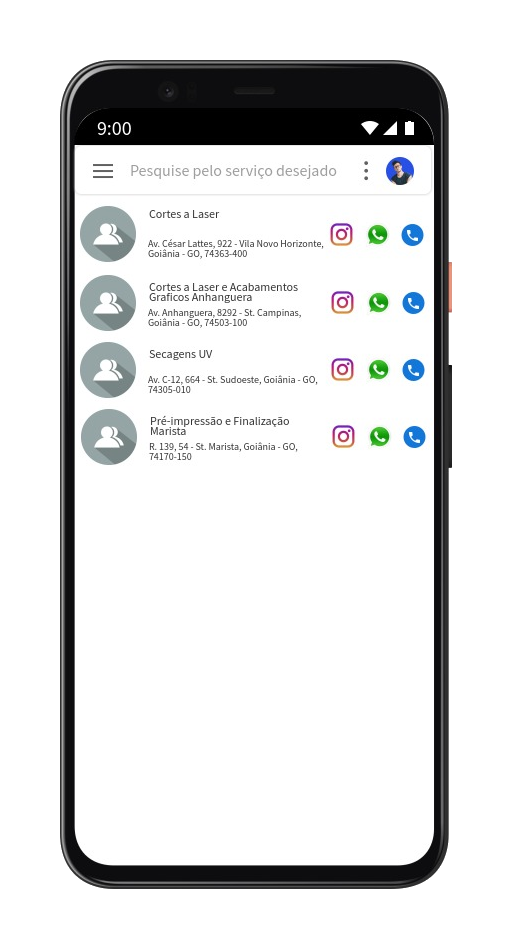
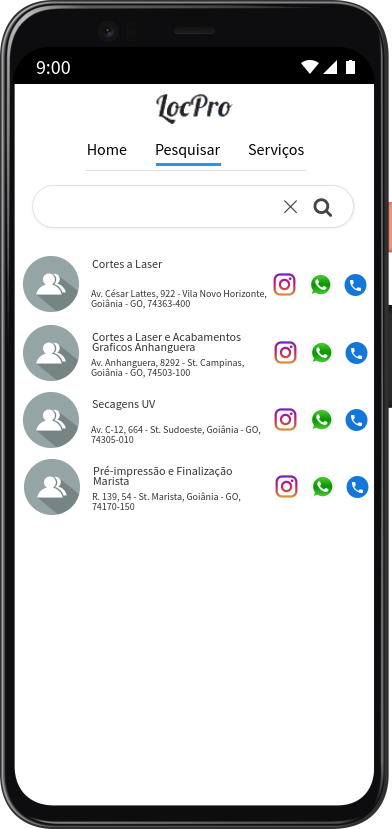
ajustes

diff --git a/index.html b/index.html
@@ -96,7 +96,7 @@
           solicitando serviços, facilitando e agilizando sua necessidade.
         </p>
         <div
-          class="d-flex flex-row w-100 justify-content-lg-between justify-content-sm-center p-3 p-lg-3 flex-wrap"
+          class="d-flex flex-row w-100 justify-content-lg-between justify-content-center p-3 p-lg-3 flex-wrap"
         >
           <div
             class="p-sm-3 card bg-transparent border-0 hvr-grow"
@@ -144,9 +144,9 @@
       </div>
     </div>
 
-    <div class="d-md-flex flex-md-equal w-100 my-md-3 pl-md-3 d-flex align-items-center justify-content-center flex-wrap">
+    <div class="d-flex align-items-center justify-content-center flex-wrap py-3 py-md-5">
       <div
-        class="mr-md-3 pt-3 px-3 pt-md-5 px-md-5 text-center overflow-hidden d-flex justify-content-center align-items-center"
+        class="col-sm-12 col-md-5"
       >
         <div class="my-3 p-3 px-md-5 text-left">
           <h2 class="display-5">Você e um profissional gráfico?</h2>
@@ -159,16 +159,21 @@
         </div>
       </div>
       <div
-        class="mr-md-3 pt-3 px-3 pt-md-5 px-md-5 text-center overflow-hidden"
+        class="col-sm-12 col-md-7 d-flex justify-content-center flex-wrap"
       >
         <img
           src="./imagens/phone-1.png"
-          class="img-fluid"
-          style="max-height: 680px;"
+          class="img-fluid m-3"
+          style="max-height: 500px;"
+        />
+        <img
+          src="./imagens/phone-2.png"
+          class="img-fluid m-3"
+          style="max-height: 500px;"
         />
       </div>
     </div>
-
+ 
     <div
       class="image-section-1 position-relative overflow-hidden p-3 p-md-5 text-center bg-light"
     >
@@ -213,17 +218,19 @@
       </div>
     </div>
 
-    <footer class="container py-5">
-      <div class="row d-flex justify-content-between">
-        <div>
+    <footer class="container">
+      <div class="d-flex py-5 align-items-start justify-content-between flex-wrap">
+        <div class="d-flex">
           <h3 class="brand">
             LocPro <small class="d-block mb-3 text-muted">&copy; 2020</small>
           </h3>
         </div>
-        <div>Termos de uso</div>
-        <div>Política de privacidade</div>
-        <div>Empresa</div>
-        <div>Fale conosco</div>
+        <div class="d-flex justify-content-start flex-wrap">
+          <small class="text-muted m-3">Termos de uso</small>
+          <small class="text-muted m-3">Política de privacidade</small>
+          <small class="text-muted m-3">Empresa</small>
+          <small class="text-muted m-3">Fale conosco</small>
+        </div>
       </div>
     </footer>
     <script src="https://code.jquery.com/jquery-3.5.1.slim.min.js"></script>
